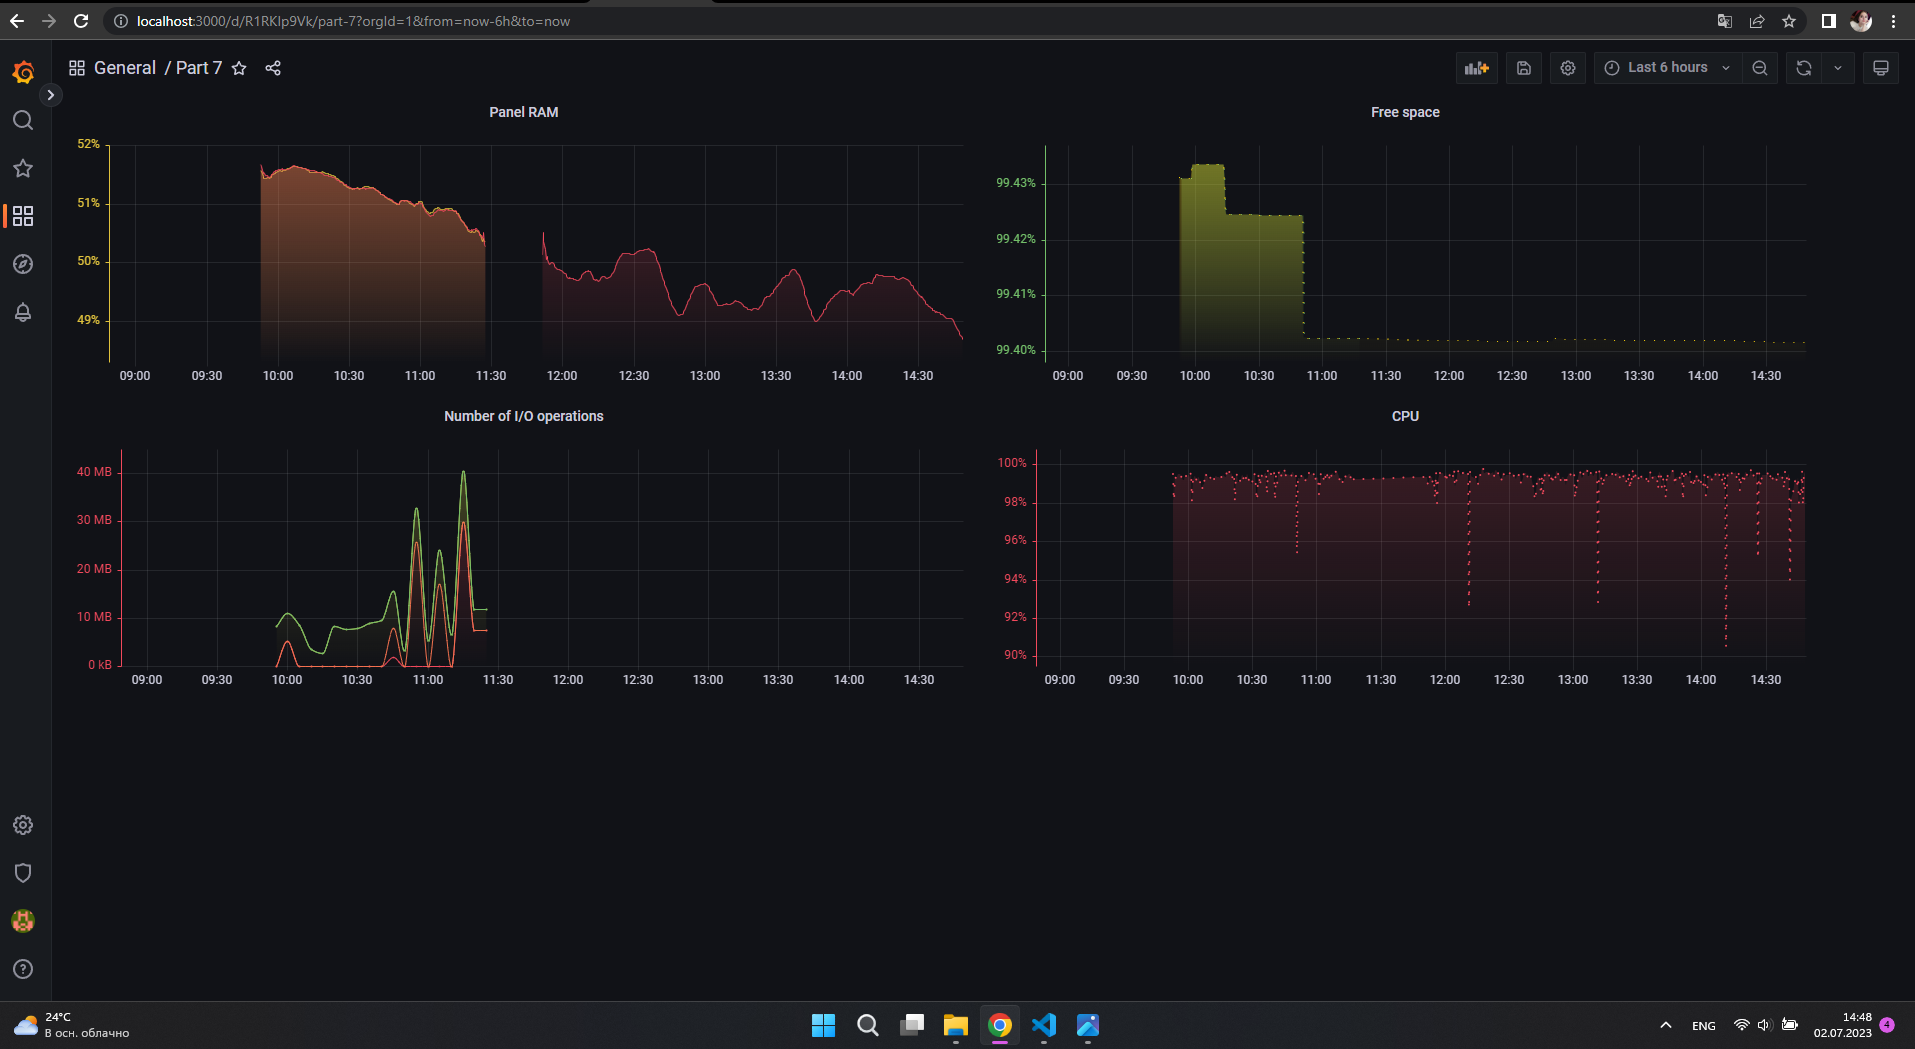
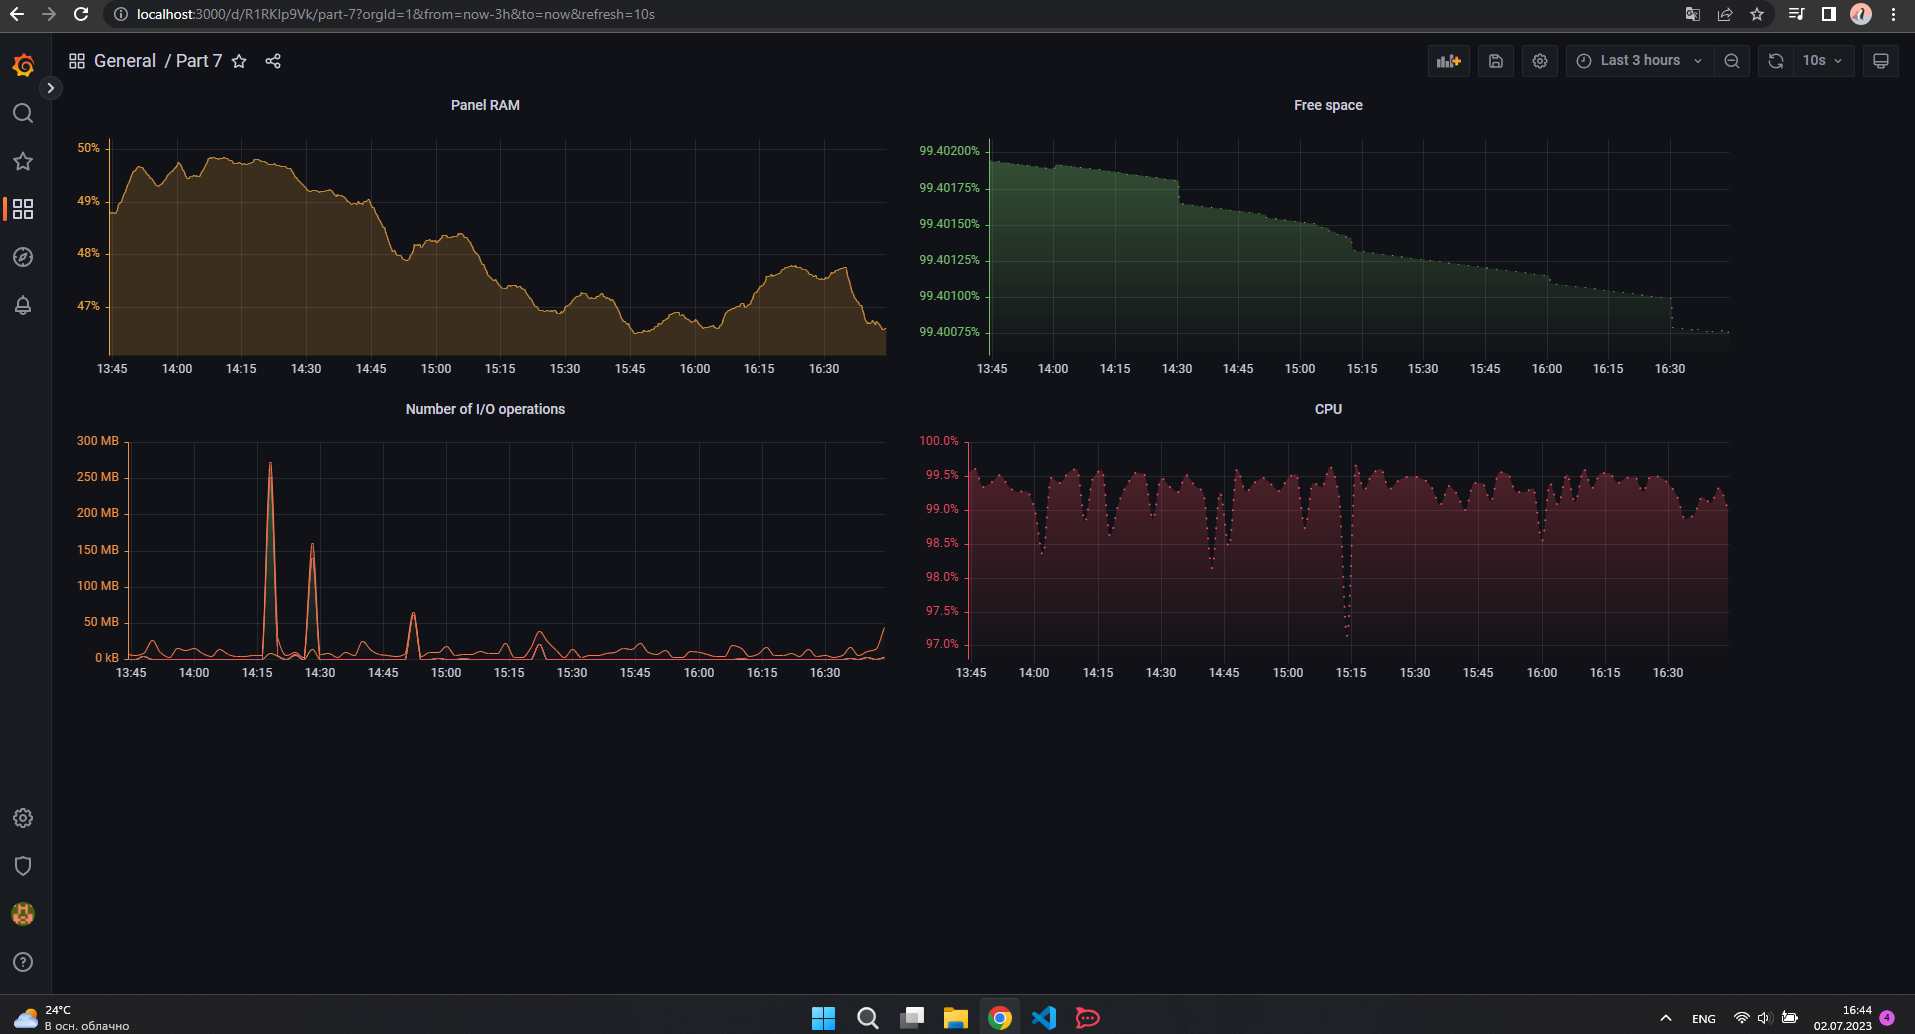
07 done

diff --git a/src/07/part_7.md b/src/07/part_7.md
@@ -17,7 +17,6 @@
 ![07_00](../../misc/images/07_00.png)
 ## RAM
 ![07_01](../../misc/images/07_RAM01.png)
-![07_01](../../misc/images/07_RAM02.png)
 ## I/O Operations
 ![07_02](../../misc/images/07_IO01.png)
 ![07_02](../../misc/images/07_IO02.png)
@@ -25,3 +24,9 @@
 ![07_03](../../misc/images/07_FS01.png)
 ## CPU
 ![07_04](../../misc/images/07_CPU01.png)
+
+# Нагрузка после выполенения команды stress(15:45-15:50)
+![07_05](../../misc/images/07_stress.png)
+
+# Нагрузка после выполнения part 1
+![07_06](../../misc/images/07_part1.png)
